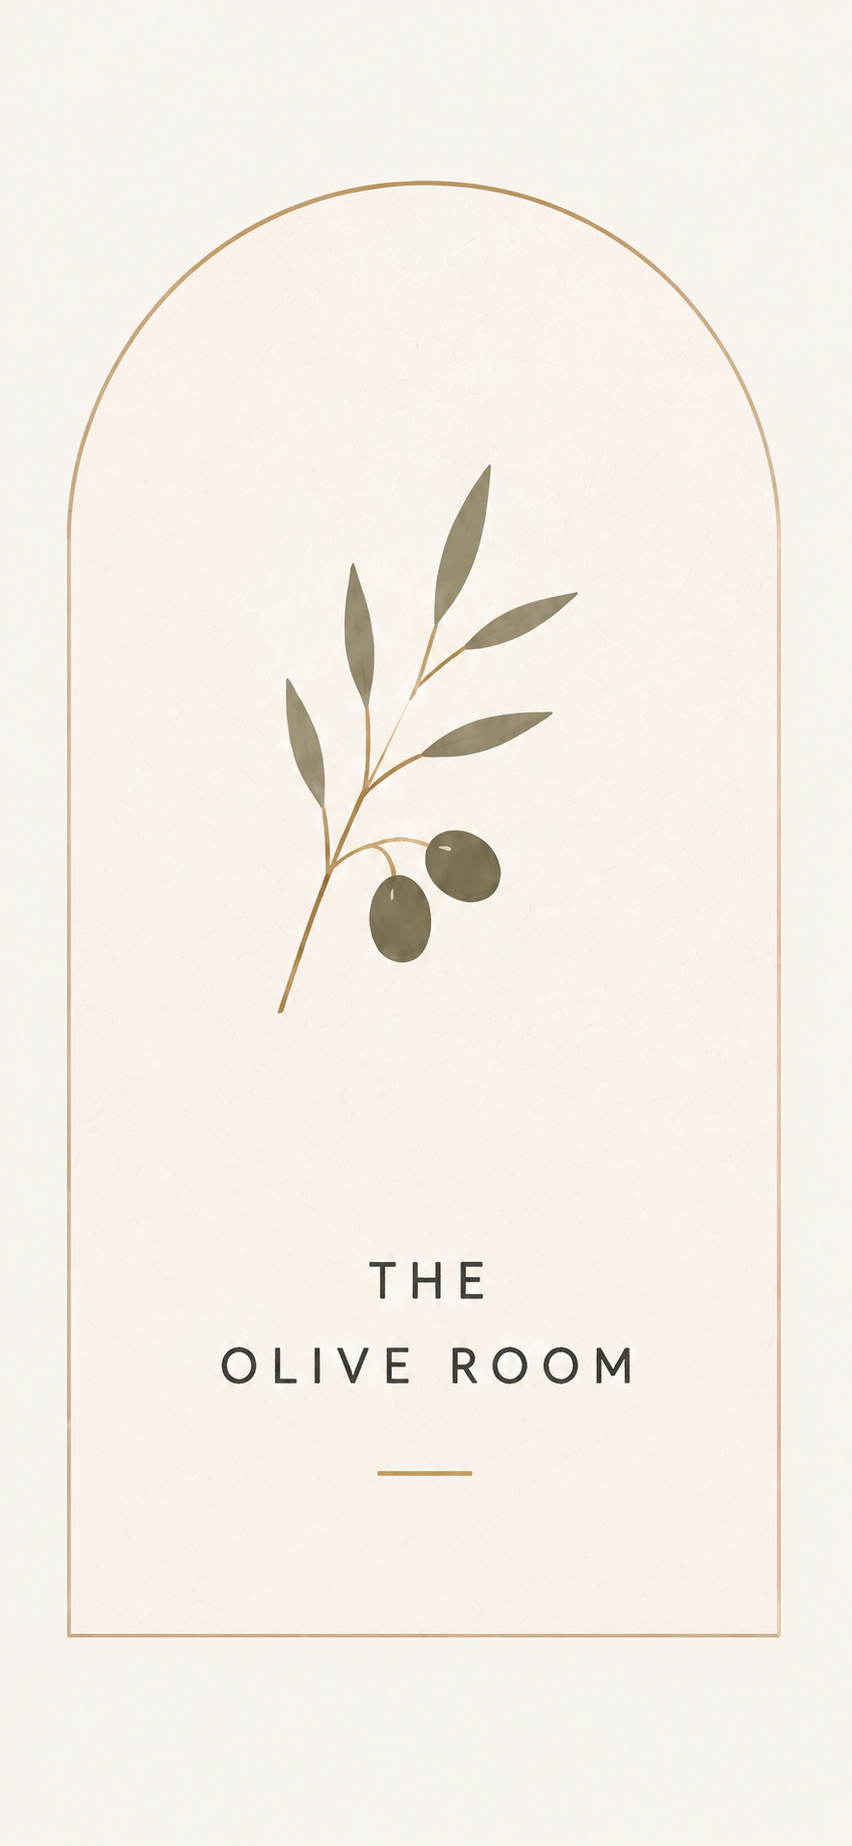
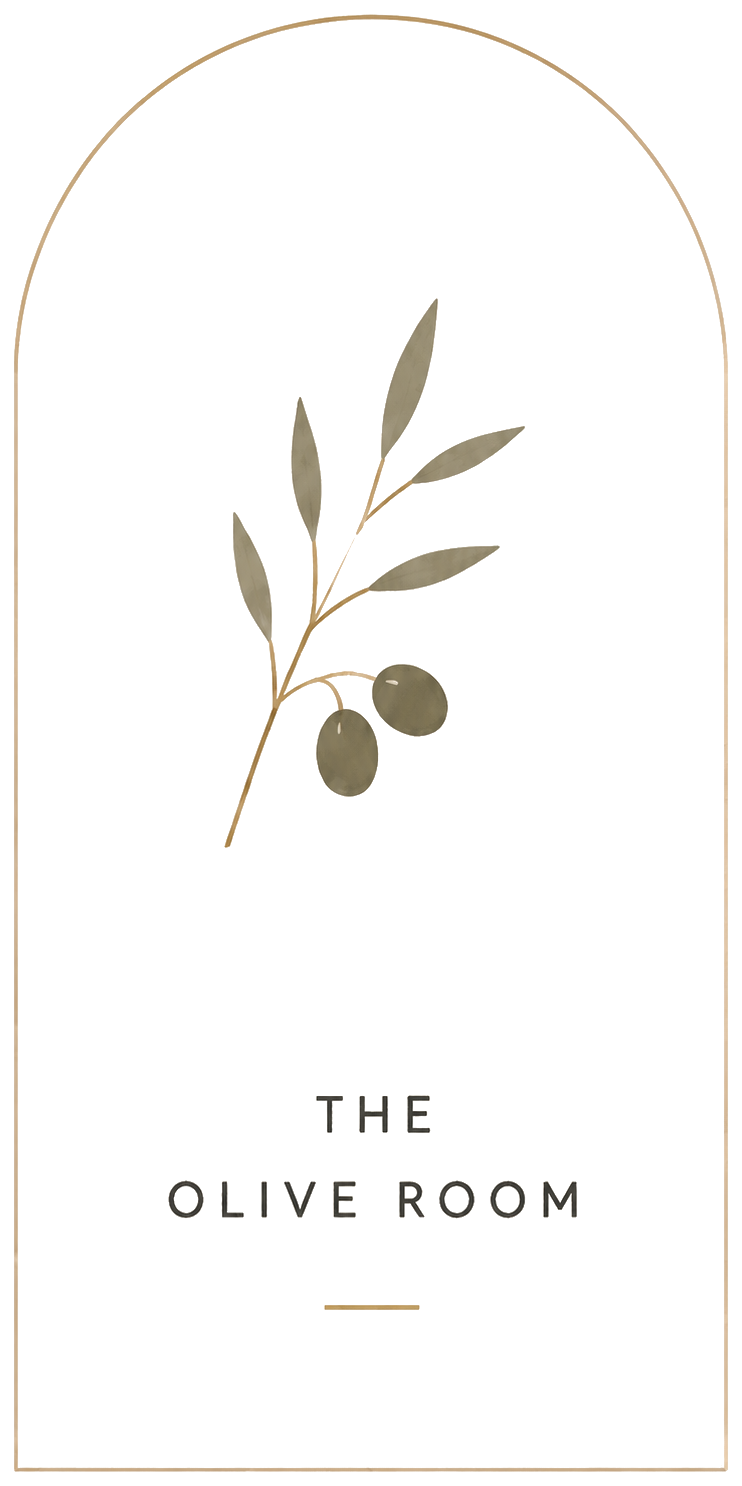
Float the Olive Room plaque on a transparent ground, smaller and shadowless
Punch out the plaque's cream background so the arch, olive branch, and
wordmark sit directly on the room rather than in a rectangular tile —
dropping the card shadow and radius, tightening the crop, and shrinking
its max width. The transparency also drops the file from 1.3 MB to 137 KB.

Claude-Session: https://claude.ai/code/session_01FVpjWAyjdDE8YjAWpcG1Ng

diff --git a/src/chapters/FoundersRoom.tsx b/src/chapters/FoundersRoom.tsx
@@ -74,8 +74,8 @@ const ROOMS = [
 // so a future room simply arrives with its own (e.g. the Lantern Room).
 function RoomPlaque({ image, alt, status }: { image: string; alt: string; status: string }) {
   return (
-    <div style={{ maxWidth: 184, margin: '0 auto', ...surface('entry 0% cover 20%') }}>
-      <ImageSlot src={image} alt={alt} fit="contain" style={{ width: '100%', height: 'auto', borderRadius: 5, boxShadow: '0 34px 60px -40px rgba(60,44,20,0.38)' }} />
+    <div style={{ maxWidth: 128, margin: '0 auto', ...surface('entry 0% cover 20%') }}>
+      <ImageSlot src={image} alt={alt} fit="contain" style={{ width: '100%', height: 'auto' }} />
       <div style={{ fontFamily: serif, fontStyle: 'italic', fontWeight: 300, fontSize: 'clamp(16px,1.8vw,22px)', lineHeight: 1.4, color: 'rgba(122,94,52,0.85)', marginTop: 'clamp(28px,3.8vw,44px)', textAlign: 'center' }}>{status}</div>
     </div>
   )
